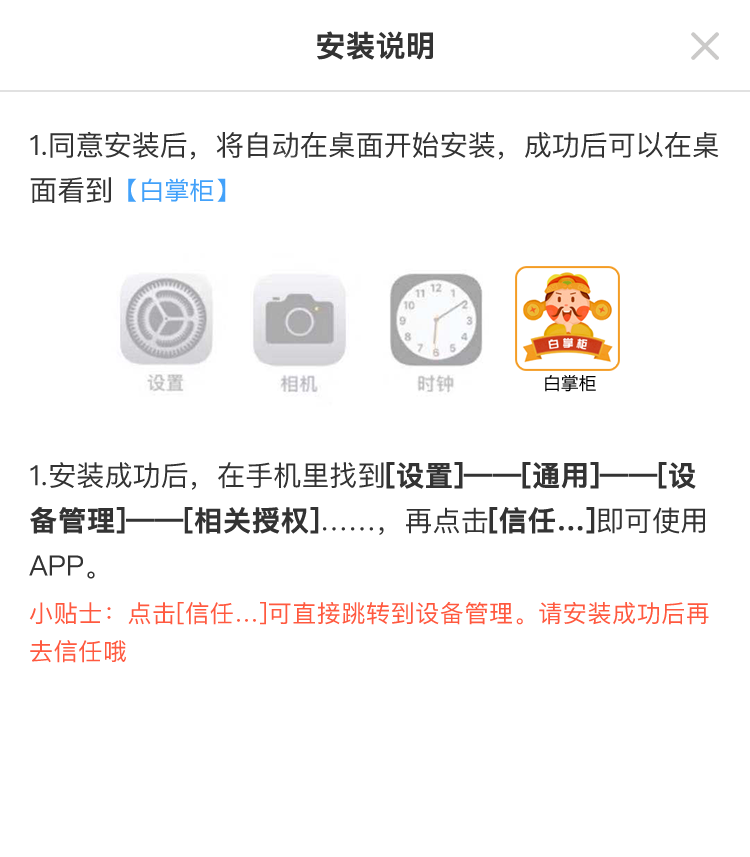
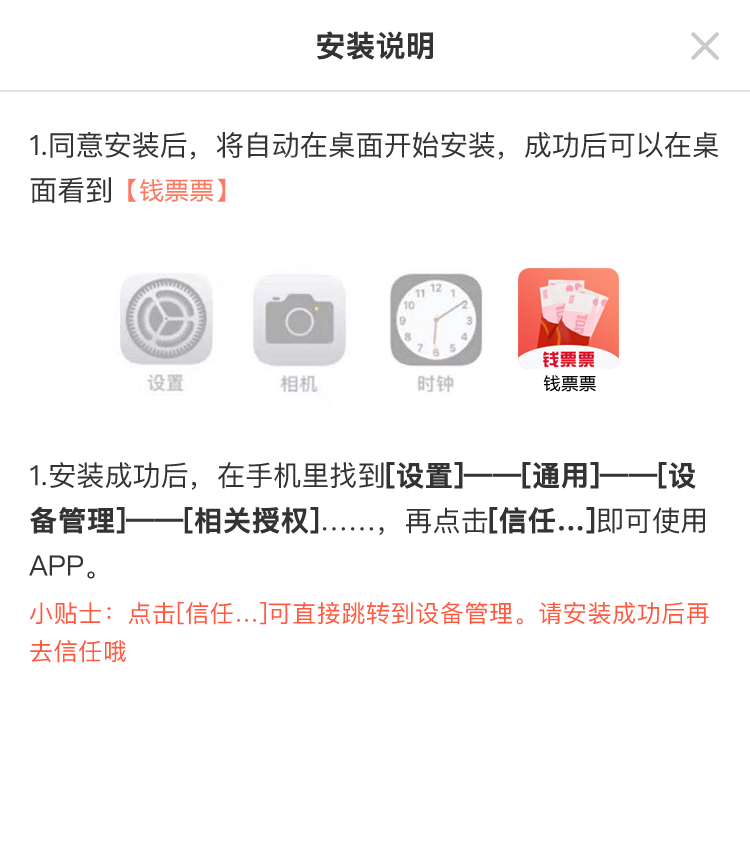
钱票票

Changed region(s): [[0.6747, 0.3034, 0.828, 0.4551], [0.1533, 0.182, 0.3067, 0.2427]]

diff --git a/src/pages/simple/landpage/index.vue b/src/pages/simple/landpage/index.vue
@@ -243,7 +243,7 @@ export default {
   min-height: 100%;
   top: 0;
   left: 0;
-  background:#488eff url('../images/bg1.jpg') top no-repeat;
+  background:#fff url('../images/bg1.png') top no-repeat;
 	background-size:100%;
 
   .land_img {
@@ -291,8 +291,8 @@ export default {
     & .landing_item {
       position: relative;
       overflow: hidden;
-      border-radius:Px(30);
-      border: 1px solid #fff;
+      /*border-radius:Px(30);*/
+      border-bottom: 1px solid #d3cccc;
       .mobile {
         position: absolute;
         display: block;
@@ -301,7 +301,7 @@ export default {
         left: 0;
         font-size: Px(26);
         line-height: Px(80);
-        color: #fff;
+        color: #999;
         text-align: center;
         &::after {
           content: "";
@@ -311,7 +311,7 @@ export default {
           display: block;
           width: 1px;
           height: Px(32);
-          background: #fff;
+          background: #999;
           transform: translate3d(0, -50%, 0);
         }
       }
@@ -320,10 +320,10 @@ export default {
         width: 100%;
         height: Px(80);
         background: none;
-        color:#fff;
+        color:#999;
       }
       input::-webkit-input-placeholder {
-        color: #fff;
+        color: #999;
       }
       .user_mobile {
         padding-left: Px(100);
@@ -357,10 +357,10 @@ export default {
         font-size: Px(22);
         line-height: Px(60);
         text-align: center;
-        color: #fff;
+        color: #f6584c;
         /*border-left: #d91833 Px(2) solid;*/
-        background: #ffb80c;
-        border-radius:Px(30);
+        /*background: #ffb80c;*/
+        /*border-radius:Px(30);*/
         &:hover,
         &:active {
           opacity: 0.7;
@@ -374,6 +374,8 @@ export default {
     height: Px(80);
     color: #fff;
     background: #ffb80c;
+    background: -webkit-linear-gradient(left, #f7594c, #fc8368);
+    background: linear-gradient(to right, #f7594c, #fc8368);
     font-size: Px(38);
     line-height: Px(80);
     border-radius:Px(30);

diff --git a/src/pages/simple/landpage-third/index.vue b/src/pages/simple/landpage-third/index.vue
@@ -1,6 +1,6 @@
 <template lang="pug">
   .page-landpage-third(:class="pageLandpageThirdClassNames")
-    img(src="./img/bg1.jpg")
+    img(src="./img/bg1.png")
     //- .scroll-box.flex-center
       i.icon-messages
       marquee.flex-1(scrollamount="5")
@@ -413,30 +413,30 @@
     margin px(30) px(25.5)
     padding px(10) px(28)
     background none
-    border-radius:px(30)
-    border: 1px solid #fff
+    //border-radius:px(30)
+    border-bottom: 1px solid #d3cccc
 
   .form-areacode
     flex none
     font-size: px(26);
     line-height: px(60);
-    color: #fff;
+    color: #999;
 
   .form-input
     flex auto
     height px(61)
     font-size px(28)
-    color #fff
+    color #999
     background none
     &::-webkit-input-placeholder
-      color #fff
+      color #999
 
   .form-separator
     flex none
     width 1px
     height px(30)
     margin px(17) px(13) 0 px(14)
-    background-color #e2e2e2
+    background-color #999
 
   .form-sendcode
     flex none
@@ -445,9 +445,9 @@
     font-size px(26)
     line-height px(60)
     padding 0 px(20)
-    border-radius px(30)
-    color #fff
-    background #ffb80c
+    //border-radius px(30)
+    color #F6584C
+    /*background #ffb80c*/
     &.-active
       color #fff
       background-color #FFAA37
@@ -460,6 +460,8 @@
     line-height px(80)
     text-align center
     background:#ffb80c
+    background: -webkit-linear-gradient(left, #f7594c, #fc8368)
+    background: linear-gradient(to right, #f7594c, #fc8368)
     color #fff
     border-radius:px(30)
   //   text-shadow 0 px(2) rgba(11,107,212,.53)

diff --git a/src/index.html b/src/index.html
@@ -5,7 +5,7 @@
   <meta charset="utf-8">
   <meta name="format-detection" content="telephone=no" />
   <meta name="viewport" content="width=device-width,initial-scale=1,user-scalable=0">
-  <title>白掌柜</title>
+  <title>钱票票</title>
[1 lines of base64/hex data omitted]
   <!--<script src="//static.wsloan.com/Script/es6-promise.min.js"></script>-->
   <!--<script src="http://api.map.baidu.com/api?v=1.4" type="text/javascript"></script>-->

diff --git a/src/pages/index/index.vue b/src/pages/index/index.vue
@@ -13,7 +13,7 @@
         </div> -->
         <div class="scroll-container" :style="`transform:translate(0, ${native.statusBarHeight})`">
           <scroller ref="scroll" :pullDownRefresh="true" @pullingDown="reload">
-            <!--<header-bar title="白掌柜"></header-bar>-->
+            <!--<header-bar title="钱票票"></header-bar>-->
             <!--<img  src="./index/indeximg.png" width="100%">-->
 <!--            <div class="tips" @click="$web2app('phone',{number: customPhone})">-->
 <!--              客服中心-->

diff --git a/src/main.js b/src/main.js
@@ -24,7 +24,7 @@ Vue.prototype.$axios = axios; // 无需加密接口
 Vue.prototype.$qs = qs; // 无需加密接口
 
 Vue.prototype.$BScroll = BScroll;
-Vue.prototype.$appName = '白掌柜';
+Vue.prototype.$appName = '钱票票';
 Vue.prototype.$isMashangjiebei = window.navigator.userAgent.indexOf('Zuyu_IOS_Mashangjiebei')
 
 import {AlertPlugin, ConfirmPlugin, ToastPlugin, LoadingPlugin} from 'vux'

diff --git a/src/pages/simple/agreement/index.vue b/src/pages/simple/agreement/index.vue
@@ -25,7 +25,7 @@
         借款申请发起地(借款申请发起人所在地)： {{ list.province }}<br>
 
         借款申请发起日期： {{ dateTime }}<br>
-        乙方（出借方）：白掌柜
+        乙方（出借方）：钱票票
       </h3><br>
       鉴于：<br>
       甲方有借款需求；甲方同意接受乙方的服务并与乙方达成协议如下：<br>

diff --git a/src/pages/simple/agreement2/index.vue b/src/pages/simple/agreement2/index.vue
@@ -25,7 +25,7 @@
         借款申请发起地(借款申请发起人所在地)： {{ list.province }}<br>
 
         借款申请发起日期： {{ dateTime }}<br>
-        乙方（出借方）：白掌柜
+        乙方（出借方）：钱票票
       </h3><br>
       鉴于：<br>
       甲方有借款需求；甲方同意接受乙方的服务并与乙方达成协议如下：<br>

diff --git a/src/pages/login/index.vue b/src/pages/login/index.vue
@@ -15,7 +15,7 @@
     <div class="register-btn" @click="registe">
               登录
     </div>
-    <p class="title">登录即同意《白掌柜服务协议》</p>
+    <p class="title">登录即同意《钱票票服务协议》</p>
   </div>
 </template>
 

diff --git a/src/styles/variable.scss b/src/styles/variable.scss
@@ -7,8 +7,8 @@ $white-gray: #f3f3f3 !default;
 
 $blue-dark: #374d63 !default;
 
-$maincolor: #00a8e8;
-$maincolor2: #00a8e8;
+$maincolor: #ff6152;
+$maincolor2: #ff6152;
 $red: #FF5A59 !default;
 $orange: #ffa438 !default;
 $green: #4cc1a7 !default;

diff --git a/src/router/index.js b/src/router/index.js
@@ -38,7 +38,7 @@ const mobileSuccess = r => require.ensure([], () => r(require('../pages/memb/mob
 
 Vue.use(Router)
 
-const $appName = '白掌柜'
+const $appName = '钱票票'
 const router = new Router({
   routes: [
     {
